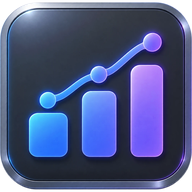
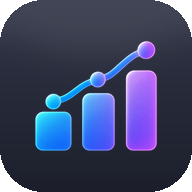
Иконка: новый знак из столбцов и линии (плитка для приложения, прозрачный знак для меню и вкладки)

diff --git a/public/index.html b/public/index.html
@@ -182,7 +182,7 @@ nav#nav a:focus,button:focus{outline:none}nav#nav a:focus-visible,button:focus-v
 @media(prefers-reduced-motion:reduce){*,*::before,*::after{animation:none!important;transition:none!important;scroll-behavior:auto!important}.ln{stroke-dashoffset:0}.ar{opacity:1}}
 </style></head><body><div class="wrap">
 <aside class="side">
-  <div class="brand"><span class="logo"><img src="icon-192.png" alt="" width="38" height="38"></span><b>ProfitCash</b></div>
+  <div class="brand"><span class="logo"><img src="logo-glyph.png" alt="" width="38" height="38"></span><b>ProfitCash</b></div>
   <nav id="nav"><span class="ind"></span><a href="#" class="on"><svg viewBox="0 0 24 24" width="18" height="18" fill="none" stroke="currentColor" stroke-width="1.8" stroke-linecap="round" stroke-linejoin="round"><path d="M4 20V10M10 20V4M16 20v-7M22 20H2"/></svg><span>Партнёрка</span></a><a href="#wonga"><svg viewBox="0 0 24 24" width="18" height="18" fill="none" stroke="currentColor" stroke-width="1.8" stroke-linecap="round" stroke-linejoin="round"><rect x="7" y="2" width="10" height="20" rx="3"/><path d="M11 18h2"/></svg><span>Wonga</span></a></nav>
   <div class="sidefoot"><button id="logout" title="Выйти">Выйти</button></div>
 </aside>

diff --git a/server.js b/server.js
@@ -109,7 +109,7 @@ http.createServer(async (req, res) => {
   }
   if (u.pathname === '/logout') { res.writeHead(204, { 'Set-Cookie': 'pc_session=; HttpOnly; SameSite=Lax; Path=/; Max-Age=0' }); return res.end(); }
   if (u.pathname === '/login') { res.writeHead(200, { 'Content-Type': 'text/html; charset=utf-8', 'Cache-Control': 'no-store' }); return res.end(LOGIN()); }
-  const PUBLIC = ['/manifest.webmanifest', '/sw.js', '/favicon-32.png', '/favicon-64.png', '/apple-touch-icon.png', '/icon-192.png', '/icon-512.png', '/icon-maskable-512.png'];
+  const PUBLIC = ['/manifest.webmanifest', '/sw.js', '/favicon-32.png', '/favicon-64.png', '/apple-touch-icon.png', '/icon-192.png', '/icon-512.png', '/icon-maskable-512.png', '/logo-glyph.png'];
   if (!authed && !PUBLIC.includes(u.pathname)) {
     if (u.pathname.startsWith('/api/')) return send(res, 401, { error: 'auth', message: 'Требуется вход' });
     res.writeHead(303, { Location: '/login' }); return res.end();
